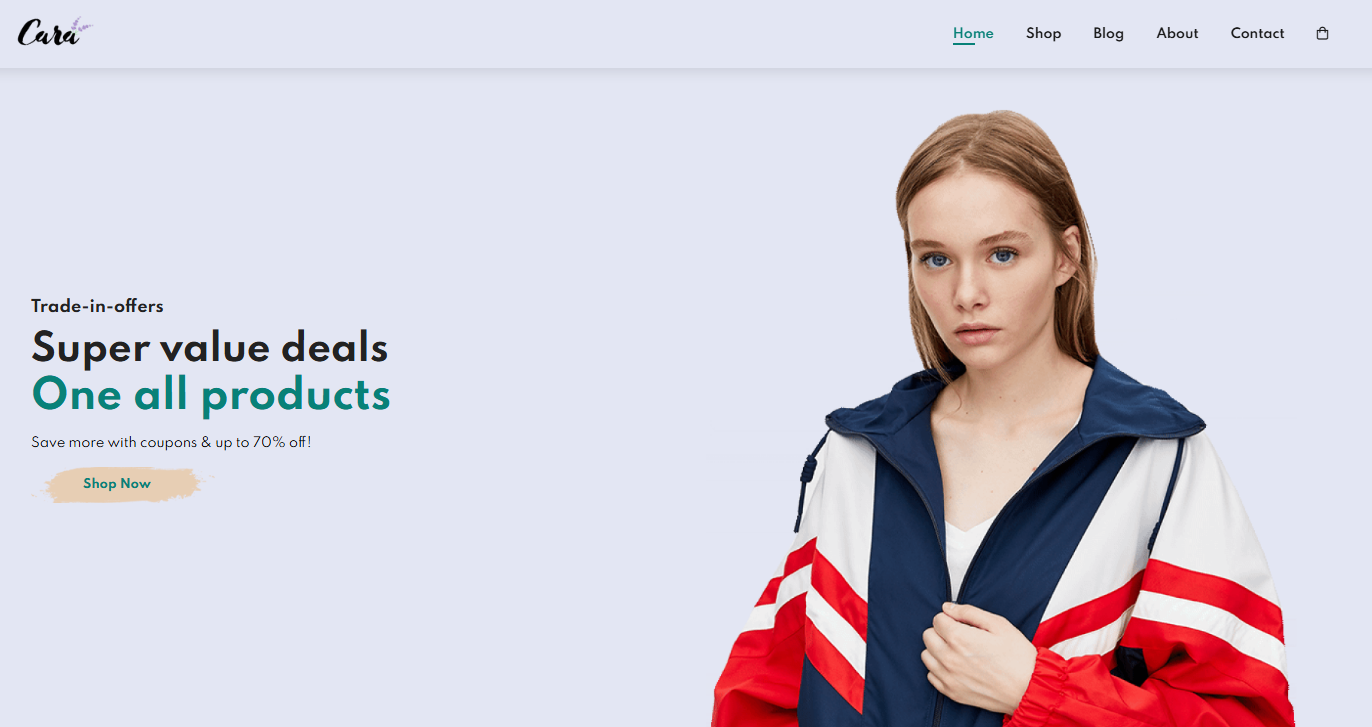
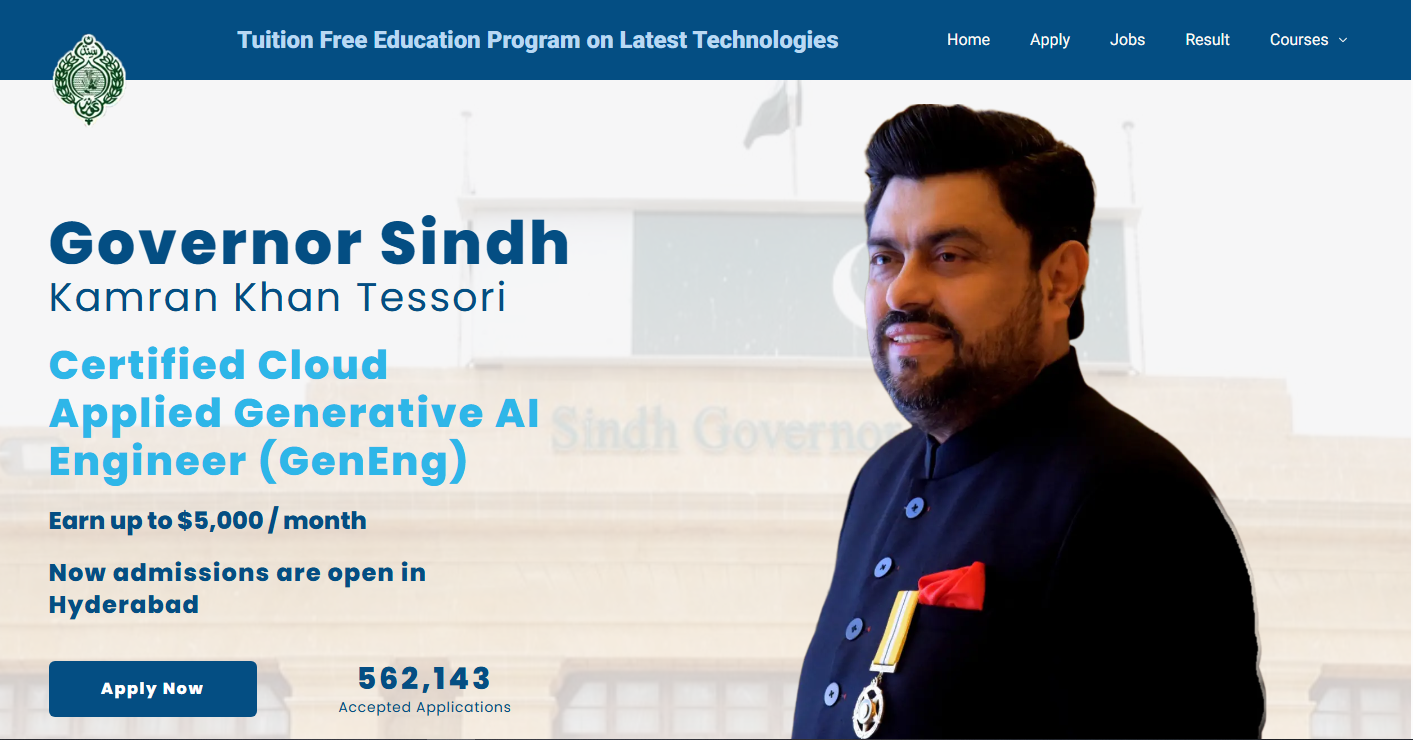
feat: add Flight Assistant AI project, new certs, update portfolio data

diff --git a/frontend/src/data/portfolio.ts b/frontend/src/data/portfolio.ts
@@ -3,11 +3,11 @@ import aboutImg from "@/assets/about.png";
 import project1 from "@/assets/Gulzaren.jpeg";
 import project2 from "@/assets/amd.jpeg";
 import project3 from "@/assets/mentor.jpeg";
-import project4 from "@/assets/project-4.jpg";
 import project5 from "@/assets/project-5.jpeg";
 import project6 from "@/assets/project-6.PNG";
 import project7 from "@/assets/project-8.PNG";
 import project8 from "@/assets/project-9.PNG";
+import project9 from "@/assets/project-7.PNG";
 import cert1 from "@/assets/cert-1.PNG";
 import cert2 from "@/assets/cert-2.jpg";
 import cert3 from "@/assets/cert-3.jpg";
@@ -16,10 +16,12 @@ import cert5 from "@/assets/cert-5.PNG";
 import cert6 from "@/assets/cert-6.jpeg";
 import cert7 from "@/assets/cert-7.png";
 import cert8 from "@/assets/cert-8.png";
+import cert9 from "@/assets/cert-9.PNG";
+import cert10 from "@/assets/cert-10.PNG";
 
 export const profile = {
   name: "Muhammad Bilal Hussain",
-  role:"AI Engineer | Full-Stack Engineer",
+  role:"AI Engineer | Full-Stack Engineer | Agentic AI ",
   greeting: "Hello, I'm",
 tagline:
   "Building intelligent AI applications and scalable full-stack solutions with Python, FastAPI, React, Next.js, and Large Language Models—focused on solving real-world problems through modern software engineering.",
@@ -203,7 +205,7 @@ export const projects = [
   title: "RedStore – Ecommerce Website Design",
   description:
     "A fully responsive, modern ecommerce frontend for a sportswear and fitness fashion store. Built with pure HTML, CSS, and vanilla JavaScript — featuring product catalog, single product gallery, cart, and account pages.",
-  image: project6, // ya project4 agar wahi slot use kar rahe ho
+  image: project6,
   tech: [
     "HTML5",
     "CSS3",
@@ -244,6 +246,24 @@ export const projects = [
   ],
   github: "https://github.com/bilalwebs/giaic-website-clone",
   demo: "https://bilal-giaic.vercel.app/",
+},
+{
+  title: "Flight Assistant AI",
+  description:
+    "A full-stack AI flight booking platform built with Next.js frontend, FastAPI backend, and a conversational travel assistant powered by the OpenAI Agents SDK and Gemini/Groq. Features secure JWT authentication, real-time seat availability, automated PNR generation, and server-authoritative pricing.",
+  image: project9, 
+  tech: [
+    "Next.js",
+    "React",
+    "TypeScript",
+    "FastAPI",
+    "Python",
+    "OpenAI Agents SDK",
+    "Tailwind CSS",
+    "SQLite",
+  ],
+  github: "https://github.com/bilalwebs/flight_assistant",
+  demo: "https://bilal-flight-assistant.vercel.app/",
 },
 
 ];
@@ -299,6 +319,18 @@ export const certificates = [
     image: cert8,
     href: "https://lablab.ai/u/@Slick_Silkw514/ai-hackathons/amd-developer-hackathon-act-ii/certificate",
   },
+  {
+  title: "AI Fluency Internship Program",
+  org: "FlyRank.ai",
+  image: cert9, 
+  href: "https://drive.google.com/file/d/1ahWNFrSaR7sgG5oBb3xrJmYCmjNm_xbc/view?usp=sharing",
+},
+{
+  title: "Front-end AI Engineering Internship Program",
+  org: "FlyRank.ai",
+  image: cert10,
+  href: "https://drive.google.com/file/d/1UY50OukNv1Aus1darDSjUqpysDFoloWe/view?usp=sharing",
+},
 ];
 export const recognitions = [
   {
